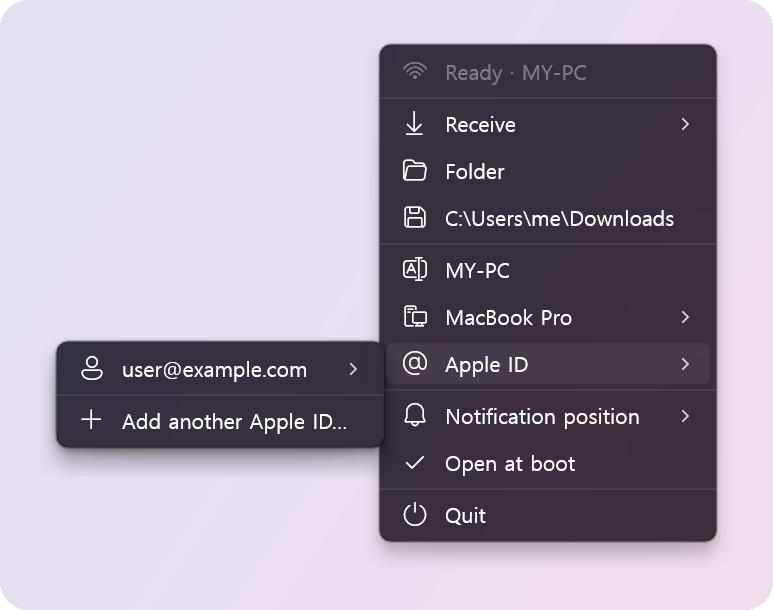
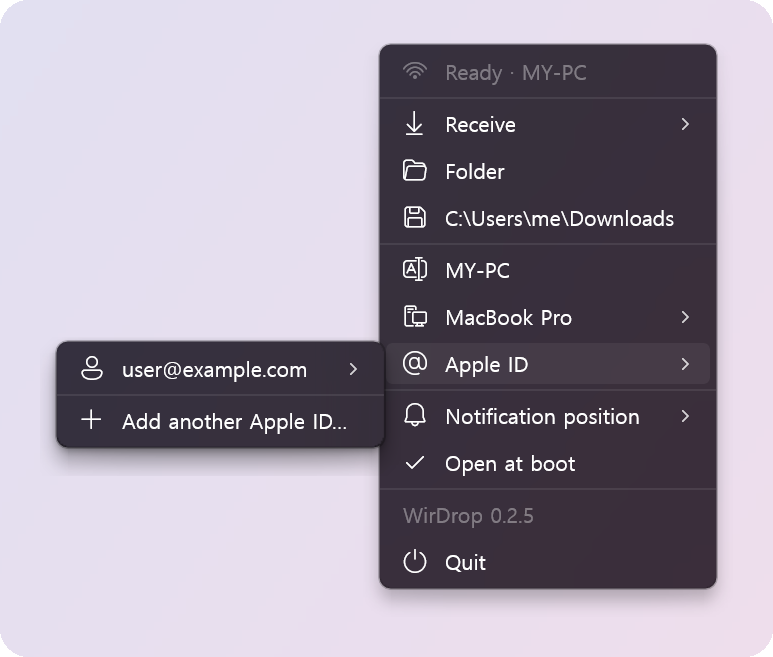
0.2.5: install an update right after a restart, and show the version
The tray menu's last line is now the version it's running. When a release is
waiting it turns into "Install 0.2.6", which installs it on the spot, and into
"Updating..." while the service swaps the binary.

The first update check runs 5 s after start instead of 2 minutes, so restarting
WirDrop picks up a release at once when nothing has been sent or received yet.
Later checks every hour, and 30 minutes after one that failed.

Signing in no longer fails when Apple's server drops the connection instead of
answering 503. Transport errors are retried like a busy server, and a login that
already saved its session ends as signed in with the certificate still coming,
which the next renewal buys.

diff --git a/crates/appleid/src/gsa.rs b/crates/appleid/src/gsa.rs
@@ -91,9 +91,9 @@ async fn call(request: Dictionary) -> Result<Dictionary, Fault> {
         .body(body)
         .send()
         .await
-        .map_err(|e| Fault::Other(e.to_string()))?;
+        .map_err(|e| Fault::Unreachable(e.to_string()))?;
     let status = res.status();
-    let bytes = res.bytes().await.map_err(|e| Fault::Other(e.to_string()))?;
+    let bytes = res.bytes().await.map_err(|e| Fault::Unreachable(e.to_string()))?;
     let Ok(Value::Dictionary(mut reply)) = plist::from_bytes::<Value>(&bytes) else {
         // plist 대신 오류 페이지: GrandSlam이 바쁨(503) 같은 것.
         return Err(Fault::Busy(status.as_u16()));
@@ -112,7 +112,22 @@ pub enum Fault {
     Refused(i64, String),
     /// plist가 오지 않았고 HTTP 상태는 이것.
     Busy(u16),
+    /// 답이 오지 않았습니다 (연결이 끊기거나 시간이 다 됨). 바쁜 GrandSlam은 503 대신 이렇게도
+    /// 답하므로, 기다렸다 다시 하면 되는 쪽으로 봅니다.
+    Unreachable(String),
     Other(String),
+}
+
+impl Fault {
+    /// 로그 한 줄에 넣을 짧은 까닭.
+    fn brief(&self) -> String {
+        match self {
+            Fault::Refused(code, _) => format!("error {code}"),
+            Fault::Busy(status) => format!("HTTP {status}"),
+            Fault::Unreachable(_) => "no answer".into(),
+            Fault::Other(message) => message.clone(),
+        }
+    }
 }
 
 impl std::fmt::Display for Fault {
@@ -120,6 +135,7 @@ impl std::fmt::Display for Fault {
         match self {
             Fault::Refused(code, message) => write!(f, "{message} ({code})"),
             Fault::Busy(status) => write!(f, "Apple's sign-in server is busy (HTTP {status})"),
+            Fault::Unreachable(message) => write!(f, "Apple's server didn't answer ({message})"),
             Fault::Other(message) => f.write_str(message),
         }
     }
@@ -174,9 +190,12 @@ pub async fn sign_in(account: &str, password: &str, anisette: &mut Anisette, cod
         match password_round(account, password, anisette).await {
             // 두 번째에 주는 것이 가진 전부입니다: 아직 무엇을 원한다고 하든.
             Ok((session, _)) => return Ok(session),
-            Err(Fault::Busy(status)) if tries < BUSY_TRIES => {
+            Err(e @ (Fault::Busy(_) | Fault::Unreachable(_))) if tries < BUSY_TRIES => {
                 tries += 1;
-                say!("Apple's sign-in server is busy (HTTP {status}); trying again in 30 s ({tries}/{BUSY_TRIES})");
+                say!(
+                    "Apple's sign-in server is busy ({}); trying again in 30 s ({tries}/{BUSY_TRIES})",
+                    e.brief()
+                );
                 tokio::time::sleep(std::time::Duration::from_secs(30)).await;
             }
             Err(e) => return Err(e.into()),
@@ -374,14 +393,15 @@ async fn verify_text_code(session: &Session, anisette: &mut Anisette, phone: u64
 }
 
 /// 세션으로 (암호 없이) 받는 AirDrop 앱 토큰: aidc.apple.com의 X-Apple-GS-Token, "adsid:token"의
-/// base64. GrandSlam이 바쁘면 (오류 페이지, 503) 5분쯤까지 다시 청합니다 ([TOKEN_WAITS] 참고).
+/// base64. GrandSlam이 바쁘면 (오류 페이지로 503을 주거나 아예 답하지 않습니다) 5분쯤까지 다시
+/// 청합니다 ([TOKEN_WAITS] 참고).
 pub async fn airdrop_token(session: &Session, anisette: &mut Anisette) -> Result<String, Fault> {
     let mut waits = TOKEN_WAITS.iter();
     loop {
         match buy_airdrop_token(session, anisette).await {
-            Err(Fault::Busy(status)) => {
-                let Some(&wait) = waits.next() else { return Err(Fault::Busy(status)) };
-                say!("Apple isn't giving the AirDrop token yet (HTTP {status}); asking again in {wait} s");
+            Err(e @ (Fault::Busy(_) | Fault::Unreachable(_))) => {
+                let Some(&wait) = waits.next() else { return Err(e) };
+                say!("Apple isn't giving the AirDrop token yet ({}); asking again in {wait} s", e.brief());
                 tokio::time::sleep(std::time::Duration::from_secs(wait)).await;
             }
             other => return other,

diff --git a/crates/app/src/tray/hub/mod.rs b/crates/app/src/tray/hub/mod.rs
@@ -65,6 +65,8 @@ pub enum MenuCmd {
     ToggleReceive,
     ToggleAutostart,
     Reconnect,
+    /// 찾아 둔 새 릴리스를 지금 들입니다.
+    UpdateNow,
     Exit,
     /// 카드 버튼의 인자를 메뉴에서 고름: 아일랜드가 없을 때 트레이 아이콘의 메뉴가 대신 묻고 알립니다.
     Press(String),
@@ -134,11 +136,13 @@ const PENDING_TRIES: u32 = 10;
 const NOTICE_FOR: Duration = Duration::from_secs(15);
 /// 찾기(엔진의 BLE 깨우기)가 마지막 요청 뒤 이어지는 시간.
 const SEARCH_FOR: Duration = Duration::from_secs(90);
-/// 업데이트: 시작하고 좀 지나서 (시작을 방해하지 않게) 처음 보고, 그다음 몇 시간마다. 새 릴리스는
-/// 1분 동안 아무 일이 없으면 들입니다.
-const UPDATE_FIRST: Duration = Duration::from_secs(2 * 60);
-const UPDATE_EVERY: Duration = Duration::from_secs(6 * 3600);
+/// 업데이트: 켜고 바로 한 번 보고 (다시 켜면 기다리지 않고 올라가도록), 그다음 몇 시간마다. 켠 뒤로
+/// 주고받은 것이 없으면 바로, 있었으면 끝나고 1분 뒤에 들입니다.
+const UPDATE_FIRST: Duration = Duration::from_secs(5);
+const UPDATE_EVERY: Duration = Duration::from_secs(3600);
 const UPDATE_QUIET: Duration = Duration::from_secs(60);
+/// 업데이트가 실패한 뒤 다시 볼 때까지. 대개 한 번 더 하면 됩니다.
+const UPDATE_RETRY: Duration = Duration::from_secs(30 * 60);
 
 pub struct Hub {
     events: UnboundedSender<HubEvent>,
@@ -184,8 +188,10 @@ pub struct Hub {
     update: Option<crate::update::Manifest>,
     /// 서비스가 업데이트를 놓는 중: 그동안 엔진은 내려가 있습니다.
     updating: bool,
-    /// 보내기, 받기, 묻기, 로그인이 아무것도 없게 된 때.
-    quiet_since: Option<Instant>,
+    /// 보내기, 받기, 묻기, 로그인을 마지막으로 하던 때. 켠 뒤로 아무것도 없었으면 None입니다.
+    busy_at: Option<Instant>,
+    /// 마지막 업데이트가 실패했습니다: [UPDATE_RETRY] 뒤에 다시 봅니다.
+    update_failed: bool,
 }
 
 pub async fn run(events: UnboundedSender<HubEvent>, mut rx: UnboundedReceiver<HubEvent>, ui: UiHandle, greet: bool) {
@@ -225,7 +231,8 @@ pub async fn run(events: UnboundedSender<HubEvent>, mut rx: UnboundedReceiver<Hu
         checking_update: false,
         update: None,
         updating: false,
-        quiet_since: None,
+        busy_at: None,
+        update_failed: false,
     };
     tracing::info!("adapter: {:?}, Explorer menu: {menu_installed}", hub.adapter);
     tokio::spawn(serve(events.clone()));
@@ -650,6 +657,7 @@ impl Hub {
             MenuCmd::ToggleReceive => self.change(Change::Receive(!self.settings.receive)),
             MenuCmd::ToggleAutostart => self.change(Change::Autostart(!elevate::autostart())),
             MenuCmd::Reconnect => self.restart_engine(),
+            MenuCmd::UpdateNow => self.begin_update(),
             MenuCmd::Exit => self.exit(),
         }
     }
@@ -748,6 +756,9 @@ impl Hub {
                 })
                 .collect(),
             receiving: self.asks.values().filter(|a| a.card.is_some()).map(|a| a.info.sender.clone()).collect(),
+            version: crate::update::CURRENT,
+            update: self.update.as_ref().map(|m| m.version.clone()),
+            updating: self.updating,
         }
     }
 

diff --git a/crates/app/src/tray/hub/updates.rs b/crates/app/src/tray/hub/updates.rs
@@ -8,9 +8,10 @@ impl Hub {
         if self.exiting || !crate::service::installed_here() {
             return;
         }
+        let again = if self.update_failed { UPDATE_RETRY } else { UPDATE_EVERY };
         let due = match self.update_checked {
             None => self.started.elapsed() > UPDATE_FIRST,
-            Some(t) => t.elapsed() > UPDATE_EVERY,
+            Some(t) => t.elapsed() > again,
         };
         if due && !self.checking_update && self.update.is_none() {
             self.checking_update = true;
@@ -23,11 +24,12 @@ impl Hub {
         if self.update.is_none() || self.updating {
             return;
         }
+        // 주고받는 중이면 끝나기를 기다립니다. 켠 뒤로 아무것도 없었으면 (다시 켠 직후) 바로 들입니다.
         if self.busy() {
-            self.quiet_since = None;
+            self.busy_at = Some(Instant::now());
             return;
         }
-        if self.quiet_since.get_or_insert_with(Instant::now).elapsed() >= UPDATE_QUIET {
+        if self.busy_at.is_none_or(|t| t.elapsed() >= UPDATE_QUIET) {
             self.begin_update();
         }
     }
@@ -40,6 +42,9 @@ impl Hub {
     /// 엔진을 놓아 주고 서비스가 업데이트를 놓게 합니다.
     pub(super) fn begin_update(&mut self) {
         let Some(manifest) = &self.update else { return };
+        if self.updating {
+            return;
+        }
         tracing::info!("updating to {}", manifest.version);
         self.updating = true;
         self.to_engine(Msg::Shutdown);
@@ -67,13 +72,22 @@ impl Hub {
                     Err(e) => tracing::error!("updated, but the new version won't start: {e}"),
                 }
             }
-            Ok(crate::service::UP_TO_DATE) => tracing::info!("update: nothing newer after all"),
-            Ok(code) => tracing::warn!("update failed ({code}): logs\\update.log"),
-            Err(e) => tracing::warn!("update failed: {e}"),
+            Ok(crate::service::UP_TO_DATE) => {
+                tracing::info!("update: nothing newer after all");
+                self.update_failed = false;
+            }
+            Ok(code) => {
+                tracing::warn!("update failed ({code}): logs\\update.log");
+                self.update_failed = true;
+            }
+            Err(e) => {
+                tracing::warn!("update failed: {e}");
+                self.update_failed = true;
+            }
         }
         self.updating = false;
         self.update = None;
-        self.quiet_since = None;
+        self.busy_at = None;
         self.launched = None;
         self.ensure_engine();
         self.push();

diff --git a/crates/app/src/tray/menu.rs b/crates/app/src/tray/menu.rs
@@ -34,6 +34,7 @@ const SAVE: char = '\u{E74E}';
 const CHECK: char = '\u{E73E}';
 const ALWAYS: char = '\u{E8FB}';
 const CANCEL: char = '\u{E711}';
+const UPDATE: char = '\u{E777}';
 
 /// 메뉴에 뜨는 허브 알림([notice_entries])의 앞 아이콘.
 pub const WARNING_GLYPH: char = WARNING;
@@ -73,9 +74,22 @@ pub fn entries(view: &TrayView) -> Vec<Entry> {
         Entry::sub(t!("알림 위치", "Notification position"), island_items(s)).glyph(BELL),
         Entry::toggle("autostart", t!("부팅 시 켜기", "Open at boot"), s.autostart),
         Entry::separator(),
+        version_item(s),
         Entry::item("exit", t!("종료", "Quit")).glyph(POWER),
     ]);
     items
+}
+
+/// 버전 한 줄: 보통은 지금 버전, 새 릴리스를 찾았으면 눌러서 바로 들이는 항목, 들이는 중이면 그 말.
+/// 업데이트는 알아서 들어오므로 ([crate::update] 참고) 누를 일은 없고, 무엇이 오는지 보여 줍니다.
+fn version_item(s: &Snapshot) -> Entry {
+    if s.updating {
+        return Entry::label(t!("업데이트하는 중…", "Updating…")).glyph(UPDATE);
+    }
+    match &s.update {
+        Some(version) => Entry::item("update", tf!("새 버전 {version} 설치", "Install {version}")).glyph(UPDATE),
+        None => Entry::label(format!("WirDrop {}", s.version)),
+    }
 }
 
 /// iPhone처럼 이 PC에 누가 보낼 수 있는지: 아무도, 연락처만(누구인지 알려면 Apple ID가 필요), 모든
@@ -368,6 +382,7 @@ pub fn pick(key: &str, view: &TrayView) -> Option<Picked> {
         }
         "autostart" => MenuCmd::ToggleAutostart,
         "restart" => MenuCmd::Reconnect,
+        "update" => MenuCmd::UpdateNow,
         "exit" => MenuCmd::Exit,
         "press" => MenuCmd::Press(rest.to_string()),
         _ => return None,

diff --git a/crates/appleid/src/main.rs b/crates/appleid/src/main.rs
@@ -182,7 +182,8 @@ async fn sign_in(out: &Path, request: Value) -> Result<SignedIn, String> {
     save_session(out, &session)?;
     let token = match gsa::airdrop_token(&session, &mut anisette).await {
         Ok(token) => token,
-        Err(gsa::Fault::Busy(_)) => return Ok(SignedIn::Later),
+        // 로그인은 끝났고 세션도 저장했습니다. 토큰만 늦는 것이면 갱신이 마저 받아 옵니다.
+        Err(gsa::Fault::Busy(_) | gsa::Fault::Unreachable(_)) => return Ok(SignedIn::Later),
         Err(e) => return Err(format!("Apple didn't give the AirDrop token: {e}")),
     };
     secret::write(&out.join(APP_TOKEN), token.as_bytes())?;

diff --git a/crates/app/src/tray/view.rs b/crates/app/src/tray/view.rs
@@ -18,6 +18,12 @@ pub struct Snapshot {
     pub asks: Vec<AskLine>,
     /// 지금 파일을 받고 있는 보내는 사람들.
     pub receiving: Vec<String>,
+    /// 지금 도는 WirDrop의 버전.
+    pub version: &'static str,
+    /// 찾아 둔 새 릴리스의 버전.
+    pub update: Option<String>,
+    /// 그 릴리스를 지금 들이는 중입니다.
+    pub updating: bool,
 }
 
 /// 보낼 곳으로 내보일 기기.

diff --git a/crates/menu/examples/demo.rs b/crates/menu/examples/demo.rs
@@ -109,6 +109,7 @@ fn tray() -> Vec<Entry> {
         Entry::sub(t("알림 위치", "Notification position"), island).glyph(BELL),
         Entry::toggle("autostart", t("부팅 시 켜기", "Open at boot"), true),
         Entry::separator(),
+        Entry::label("WirDrop 0.2.5"),
         Entry::item("exit", t("종료", "Quit")).glyph(POWER),
     ]
 }

diff --git a/README.md b/README.md
@@ -77,7 +77,8 @@ Mac. Optional, and your password is never stored.
 3. On the iPhone, tap **Share**, then **AirDrop**, and pick this PC. To send the other way,
    right-click a file on the PC and choose **AirDrop**.
 
-Updates install themselves when nothing is being sent or received.
+Updates install themselves when nothing is being sent or received. The tray menu shows the version
+it's running, and the new one while it installs.
 
 <details>
 <summary><b>Why does it need a USB adapter?</b></summary>
